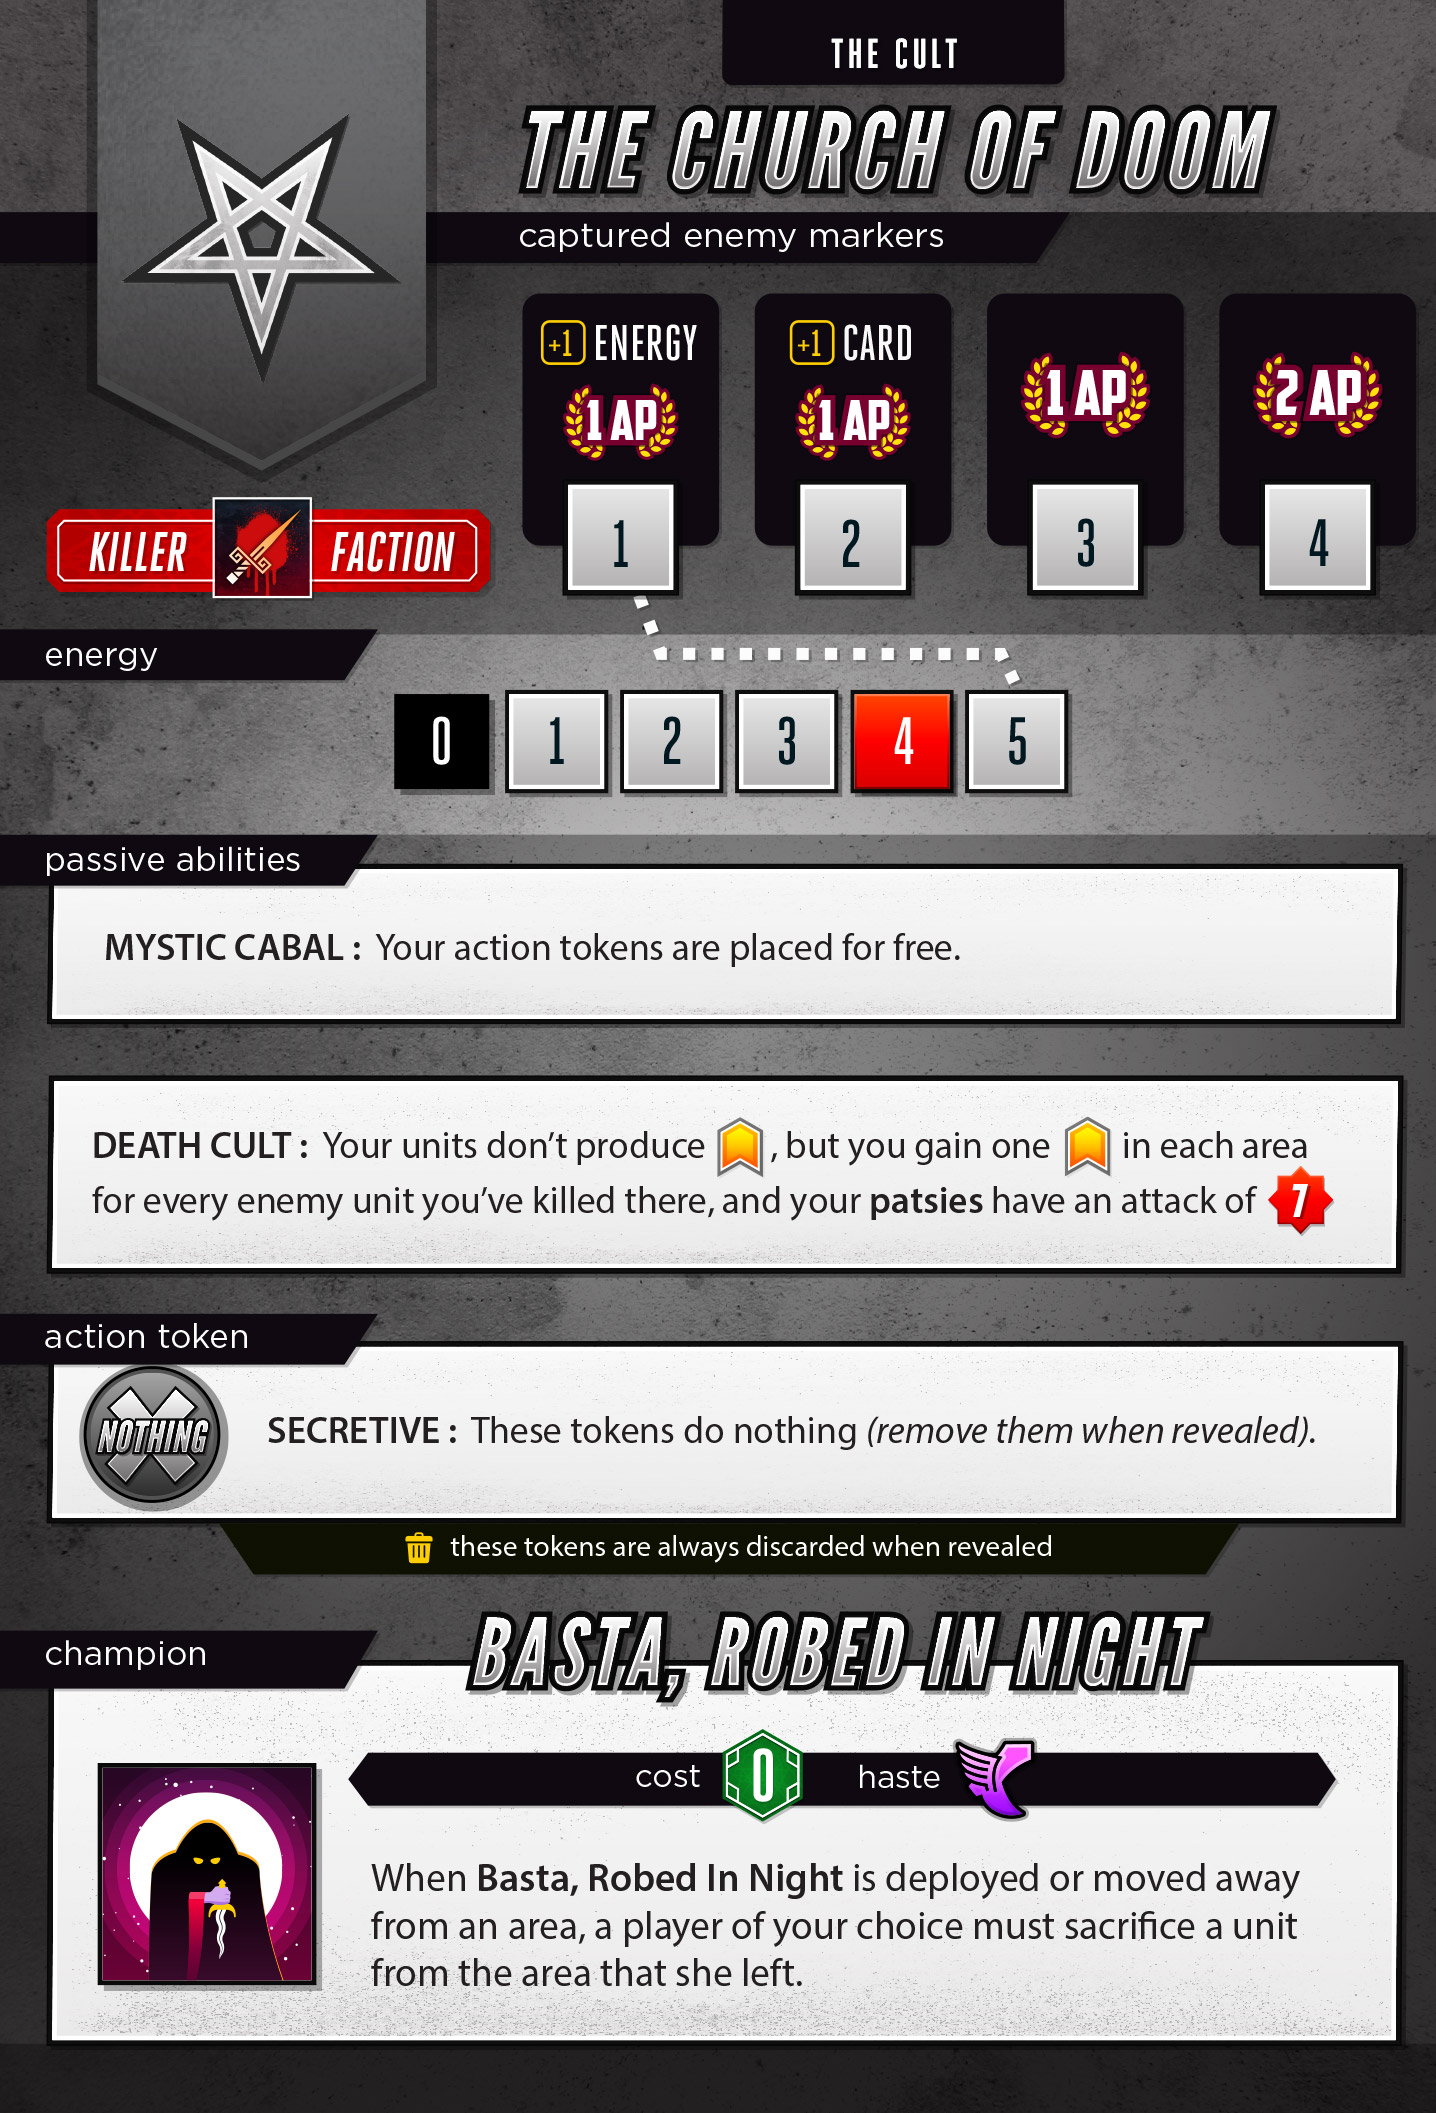
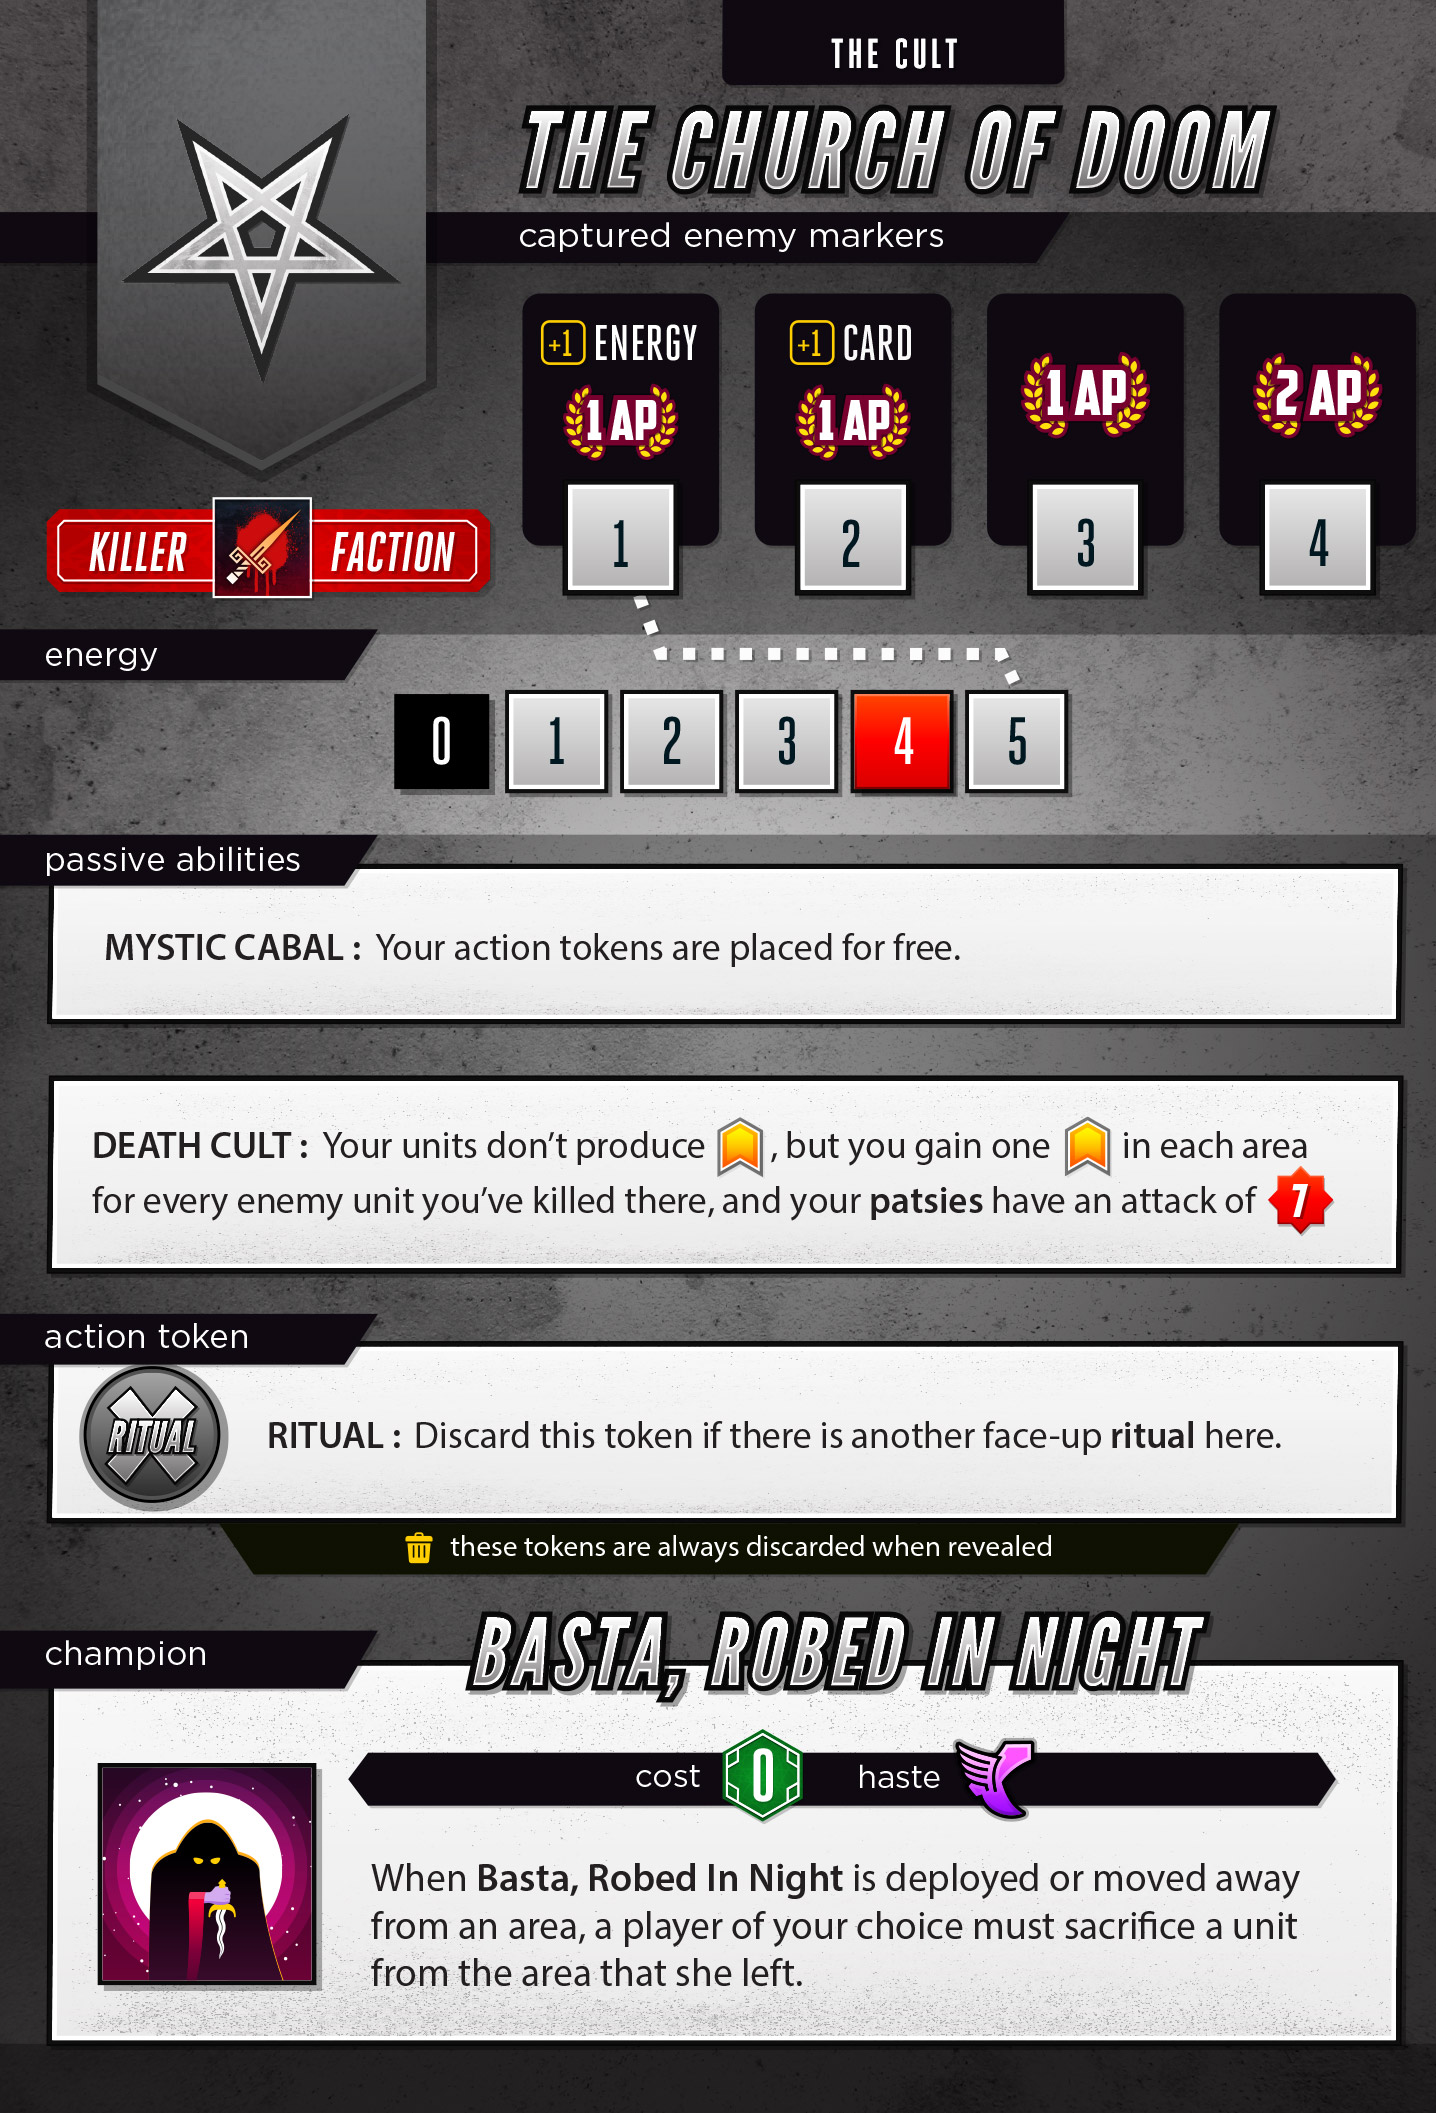
CULTIST: convert nothing to ritual

Changed region(s): [[0.1838, 0.6559, 0.9192, 0.6872], [0.0613, 0.6559, 0.1532, 0.6872]]

diff --git a/server/classes/factions/Cultists.js b/server/classes/factions/Cultists.js
@@ -16,13 +16,14 @@ class Cultists extends Faction {
         this.data.focusDescription = "Kill many units";
 
         // tokens
-        this.tokens['nothing'] = {
+        this.tokens['ritual'] = {
             count: 4,
             data: {
                 cost : 0,
-                influence: 0,
-                description: "This token does nothing except bluff the opponent, discarded when revealed",
-                req : "This token must always be discarded"
+                influence: 1,
+                type : 'ritual',
+                description: "This token does nothing except produce an influence, discard when another ritual has been revealed here",
+                req : "This must always be discarded is another ritual is face-up here"
             }
         };
         delete this.tokens['battle'];
@@ -144,12 +145,12 @@ class Cultists extends Faction {
      *
      * @returns {boolean}
      */
-    canActivateNothing(){
-        // no, don't even think about it
-        return this.game().data.tokenLayaway;
+    canActivateRitual( token, area ){
+        return area.data.tokens.filter( token => token.type === "ritual" && token.revealed ).length < 2;
+        //return this.game().data.tokenLayaway;
     }
 
-    activateNothingToken( args ){
+    activateRitualToken( args ){
         // just advance the game, easy as pie
         this.game().advancePlayer();
     }
